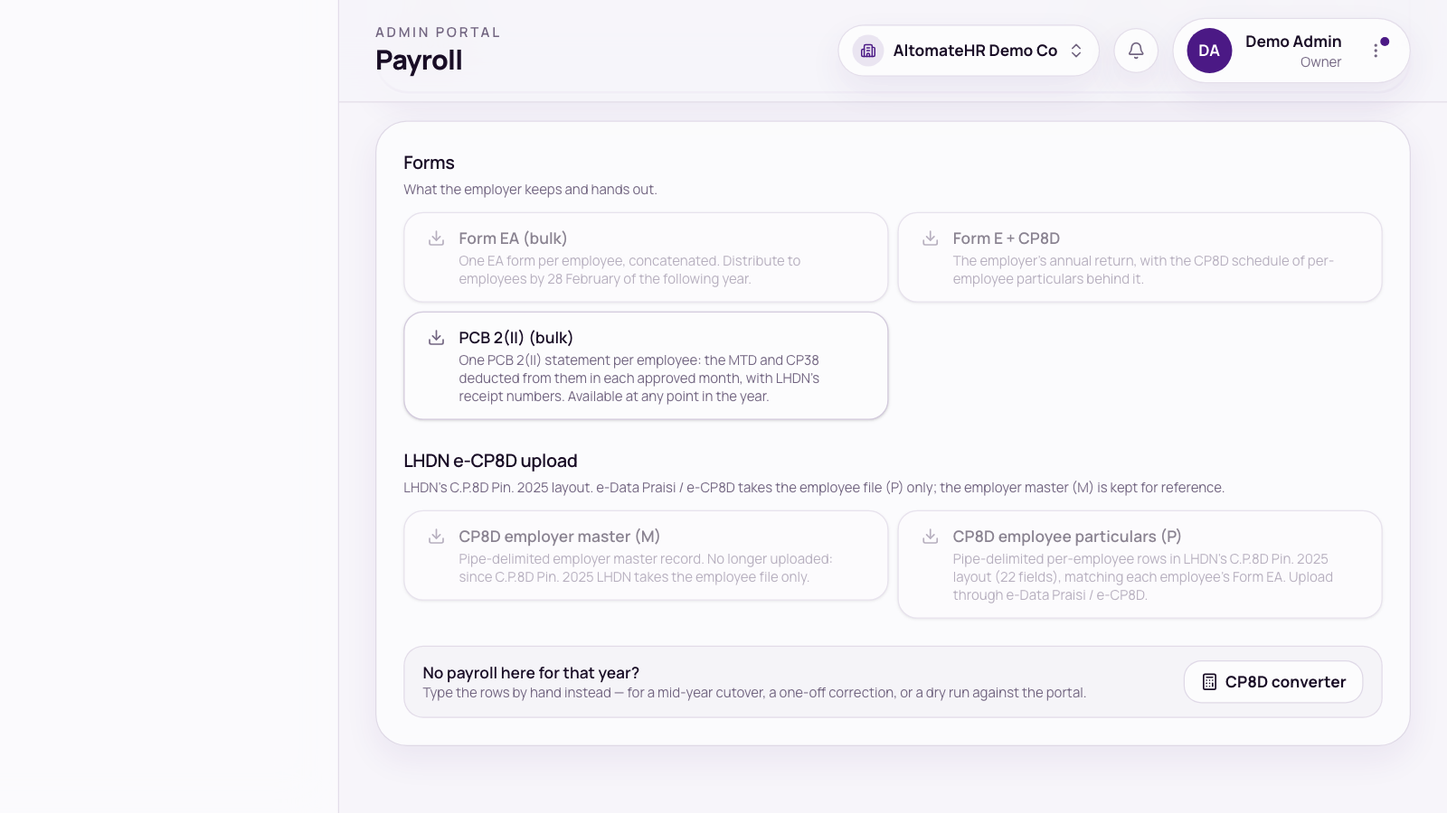
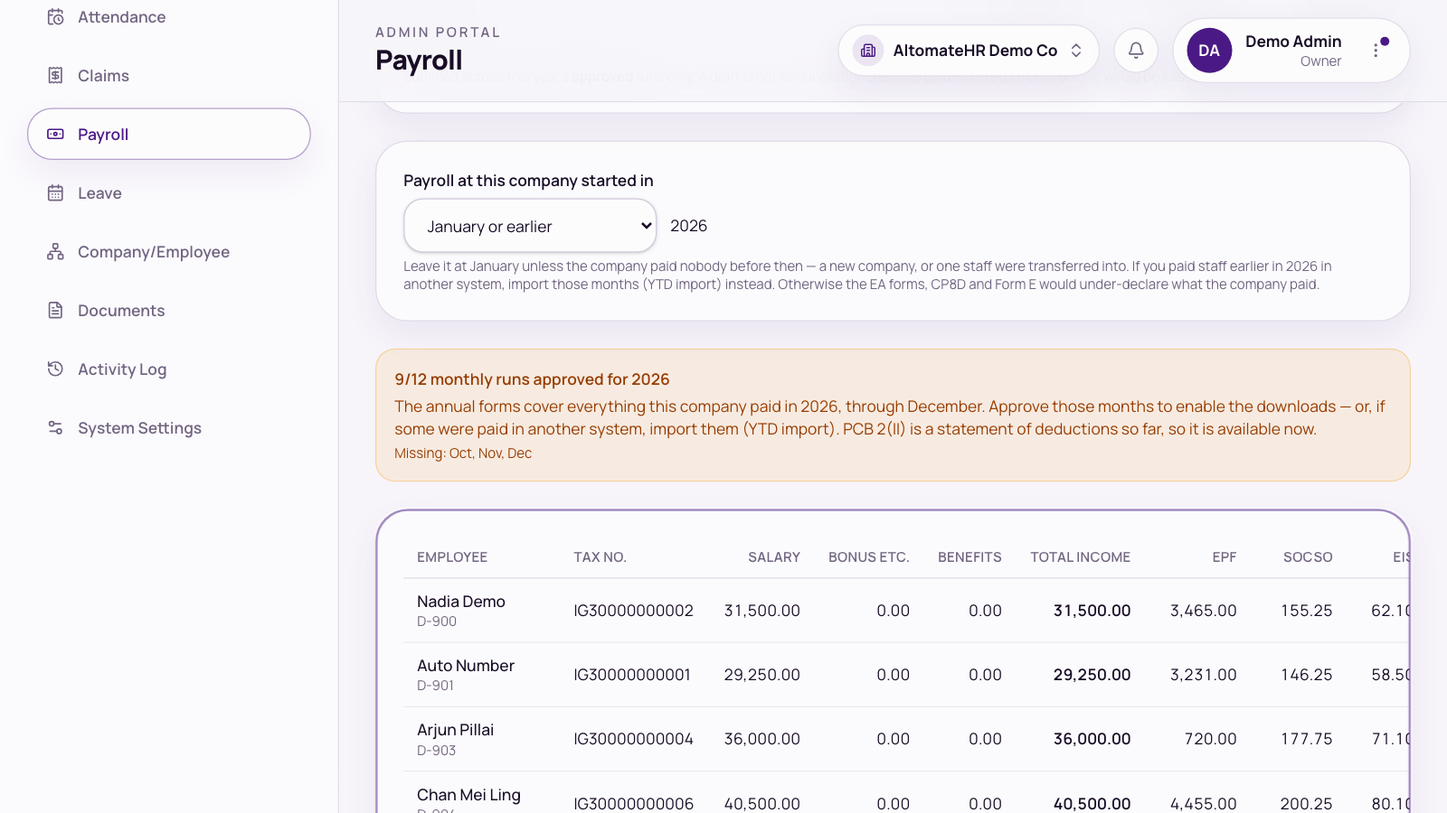
docs: what's new, API docs and user guides for the payroll start setting and company-money claim routing

diff --git a/api-docs/payroll.html b/api-docs/payroll.html
@@ -477,8 +477,11 @@
         <p>
           A year appears once the caller has at least one submitted payslip in it, even if the form
           isn't ready, so "not yet" is visible. The form declares the whole January&ndash;December
-          year, so it is <code>available</code> only once <strong>all 12 months</strong> of that year's
-          runs are approved (<code>SUBMITTED</code>) &mdash; the company's runs, whoever was on them.
+          year, so it is <code>available</code> only once the company's payroll for that year is approved
+          (<code>SUBMITTED</code>) <strong>from its first run of the year through December</strong>
+          &mdash; the company's runs, whoever was on them. That is all 12 months unless an admin set a
+          later payroll start month (see <a href="#set-payroll-start">PUT /payroll/annual/start</a>)
+          or a run exists for an earlier month, which pulls the start back.
           That holds for leavers too: someone who leaves can return the same year, so a form issued
           at their last month could under-declare.
         </p>
@@ -488,9 +491,10 @@
             <thead><tr><th>Field</th><th>Type</th><th>Meaning</th></tr></thead>
             <tbody>
               <tr><td><code>year</code></td><td>int</td><td>e.g. <code>2026</code>.</td></tr>
-              <tr><td><code>available</code></td><td>boolean</td><td>True once all 12 months of the year are approved.</td></tr>
-              <tr><td><code>approvedMonths</code></td><td>int</td><td>How many of the 12 months are approved so far (0&ndash;12).</td></tr>
-              <tr><td><code>notReadyReason</code></td><td>string?</td><td>Why it isn't ready, in words (e.g. <code>"The 2026 EA form will be ready once all 12 months of 2026 payroll are approved."</code>). <code>null</code> when <code>available</code>.</td></tr>
+              <tr><td><code>available</code></td><td>boolean</td><td>True once every required month of the year is approved.</td></tr>
+              <tr><td><code>approvedMonths</code></td><td>int</td><td>How many of the required months are approved so far.</td></tr>
+              <tr><td><code>requiredMonths</code></td><td>int</td><td>How many months the form waits for: 12 for a company that ran all year, fewer when payroll started later in the year.</td></tr>
+              <tr><td><code>notReadyReason</code></td><td>string?</td><td>Why it isn't ready, in words (e.g. <code>"The 2026 EA form will be ready once this company's 2026 payroll is approved through December."</code>). <code>null</code> when <code>available</code>.</td></tr>
             </tbody>
           </table>
         </div>
@@ -498,9 +502,9 @@
 <pre><code>curl https://&lt;api-host&gt;/payslips/ea-forms \
   -H "Authorization: Bearer wp_live_xxx"</code></pre>
 <pre><code>[
-  { "year": 2026, "available": false, "approvedMonths": 9,
-    "notReadyReason": "The 2026 EA form will be ready once all 12 months of 2026 payroll are approved." },
-  { "year": 2025, "available": true, "approvedMonths": 12, "notReadyReason": null }
+  { "year": 2026, "available": false, "approvedMonths": 9, "requiredMonths": 12,
+    "notReadyReason": "The 2026 EA form will be ready once this company's 2026 payroll is approved through December." },
+  { "year": 2025, "available": true, "approvedMonths": 12, "requiredMonths": 12, "notReadyReason": null }
 ]</code></pre>
       </section>
 
@@ -528,7 +532,7 @@
             <thead><tr><th>Status</th><th>When</th><th>Body</th></tr></thead>
             <tbody>
               <tr><td><code>404</code></td><td>The caller was not paid in that year, or has no employee profile</td><td>empty</td></tr>
-              <tr><td><code>409</code></td><td>Not all 12 months of the year are approved yet</td><td><code>{ "error": "The 2026 EA form will be ready once all 12 months of 2026 payroll are approved." }</code></td></tr>
+              <tr><td><code>409</code></td><td>The company's year is not approved through December yet</td><td><code>{ "error": "The 2026 EA form will be ready once this company's 2026 payroll is approved through December." }</code></td></tr>
             </tbody>
           </table>
         </div>
@@ -948,7 +952,10 @@
       <p>Year-end filings: Form EA, Form E + CP8D, the LHDN e-CP8D upload pair, and PCB 2(II). An employee's own EA reaches them through the payslips surface, not here.</p>
       <div class="callout warn">
         Form EA, Form E + CP8D and the two CP8D TXT files all cover a full January–December
-        year: none can be produced until all twelve months of that year are <code>SUBMITTED</code>.
+        year: none can be produced until every required month of that year is <code>SUBMITTED</code>,
+        through December. The required months start in January, or at the payroll start month an
+        admin set, and an earlier run (even a draft) pulls the start back. A draft month anywhere
+        in the range holds the year back.
         PCB 2(II) is the one exception — a statement of what has been deducted so far — and is
         available at any point in the year.
       </div>
@@ -990,12 +997,59 @@
             <tbody>
               <tr><td><code>year</code>, <code>organizationName</code>, <code>employerNo</code></td><td></td><td><code>employerNo</code> is the TIN with letters/punctuation stripped.</td></tr>
               <tr><td><code>submittedMonths</code></td><td>int[]</td><td>1–12, which months are approved.</td></tr>
-              <tr><td><code>missingMonths</code></td><td>int[]</td><td>1–12 not yet approved.</td></tr>
-              <tr><td><code>canGenerate</code></td><td>boolean</td><td><code>missingMonths</code> is empty — the full-year forms would succeed.</td></tr>
+              <tr><td><code>runMonths</code></td><td>int[]</td><td>1–12, months that have a run in any status (drafts included).</td></tr>
+              <tr><td><code>startMonth</code></td><td>int</td><td>The first month the forms wait for this year: 1 (January) by default, or the configured start month. <code>13</code> when the configured start year is later than <code>year</code> (nothing is required beyond runs that exist).</td></tr>
+              <tr><td><code>payrollStartYear</code>, <code>payrollStartMonth</code></td><td>int | null</td><td>The saved "payroll here started in" setting. <code>null</code> when unset.</td></tr>
+              <tr><td><code>requiredMonths</code></td><td>int</td><td>How many months the forms wait for, from the first required month through December.</td></tr>
+              <tr><td><code>missingMonths</code></td><td>int[]</td><td>Required months not yet approved, in order. Follows the required range, so it is not always the 1–12 gaps.</td></tr>
+              <tr><td><code>canGenerate</code></td><td>boolean</td><td>Every required month is approved (and at least one exists) &mdash; the year-end forms would succeed.</td></tr>
               <tr><td><code>employees</code></td><td>array</td><td>Per-employee year totals: <code>employeeProfileId</code>, <code>employeeName</code>, <code>employeeCode</code>, identity fields, <code>grossSalary</code>, <code>bonusAndCommission</code>, <code>totalBik</code>, <code>totalPcb</code>, <code>totalMtdRemitted</code>, <code>totalCp38</code>, <code>totalZakat</code>, <code>totalEpfEmployee</code>, <code>totalSocsoEmployee</code>, <code>totalEisEmployee</code>, <code>totalIncome</code>, and a <code>months</code> array of <code>{ month, pcb, cp38, zakat }</code>. (The full row also carries the EA form's own line-by-line figures.)</td></tr>
             </tbody>
           </table>
         </div>
+      </section>
+
+      <section class="endpoint" id="set-payroll-start">
+        <div class="endpoint-head">
+          <span class="method put">PUT</span>
+          <span class="path">/payroll/annual/start</span>
+          <span class="tag scope">payroll:write</span>
+        </div>
+        <p>Tells the year-end forms that payroll at this company genuinely started part-way through a year, so that year's forms wait only for the months from then through December. Needs the Payroll module.</p>
+        <h3>Request</h3>
+        <div class="table-wrap">
+          <table>
+            <thead><tr><th>Field</th><th>Type</th><th>Required</th><th>Notes</th></tr></thead>
+            <tbody>
+              <tr><td><code>year</code></td><td>int | null</td><td>With <code>month</code></td><td>2000&ndash;2100.</td></tr>
+              <tr><td><code>month</code></td><td>int | null</td><td>With <code>year</code></td><td>1&ndash;12.</td></tr>
+            </tbody>
+          </table>
+        </div>
+        <p>Send both, or send neither (<code>{}</code> or both <code>null</code>) to clear it. A start month of January is stored as "unset", which is the default.</p>
+        <h3>Response <code>204</code></h3>
+        <p>No body. Reload <code>GET /payroll/annual/{year}</code> to see the effect.</p>
+        <h3>Errors</h3>
+        <div class="table-wrap">
+          <table>
+            <thead><tr><th>Status</th><th>When</th><th>Body</th></tr></thead>
+            <tbody>
+              <tr><td><code>400</code></td><td>A field is out of range</td><td><code>{ "errors": { "Month": ["…"] } }</code></td></tr>
+              <tr><td><code>400</code></td><td>Only one of <code>year</code> and <code>month</code> given</td><td><code>{ "error": "Give both the year and the month, or neither." }</code></td></tr>
+              <tr><td><code>403</code></td><td>Missing scope or module, or the admin's access doesn't include changing settings</td><td><code>{ "error": { "status": 403, "message": "…" } }</code></td></tr>
+            </tbody>
+          </table>
+        </div>
+        <h3>Things that bite</h3>
+        <ul>
+          <li><strong>Only for a company that really began paying later.</strong> If staff were paid January&ndash;June in another system and moved here in July, import those months (YTD import) instead. Setting a July start would make the forms under-declare what the company paid.</li>
+          <li><strong>It replaces the saved start.</strong> The start applies to its own year; later years go back to January, and earlier years require nothing beyond runs that exist.</li>
+          <li><strong>A run for an earlier month pulls the start back</strong>, whatever you set, and a draft month in the range holds the year back.</li>
+          <li>The change is written to the audit log.</li>
+        </ul>
+<pre><code>curl -X PUT https://&lt;api-host&gt;/payroll/annual/start \
+  -H "Authorization: Bearer wp_live_xxx" -H "Content-Type: application/json" \
+  -d '{"year":2026,"month":7}'</code></pre>
       </section>
 
       <section class="endpoint">
@@ -1009,8 +1063,8 @@
         <p>The file, content type and filename per that report's <code>mimeType</code>/<code>extension</code> (e.g. <code>Form_EA_2026_Bulk.pdf</code>, <code>P{employerNo}_2026.TXT</code>).</p>
         <h3>Errors</h3>
         <p>
-          <code>409</code> <code>{ "error": "x/12 monthly runs approved for 2026. The annual forms cover the full January–December year, so approve every month first (missing: …)." }</code>
-          for a full-year report with gaps; <code>409</code> naming a missing Company Info field for the forms that need one.
+          <code>409</code> <code>{ "error": "x/y monthly runs approved for 2026. The annual forms cover every month this company ran payroll through December, so approve those first (missing: …)." }</code>
+          for a full-year report with gaps (<code>y</code> is <code>requiredMonths</code>); <code>409</code> naming a missing Company Info field for the forms that need one.
         </p>
 <pre><code>curl https://&lt;api-host&gt;/payroll/annual/2026/reports/FORM_EA_BULK_PDF \
   -H "Authorization: Bearer wp_live_xxx" -o form-ea-2026.pdf</code></pre>

diff --git a/api-docs/claims.html b/api-docs/claims.html
@@ -123,7 +123,7 @@
             <tr><td><code>receiptXeroFileId</code></td><td>string | null</td><td>Set when the receipt is held in Xero Files.</td></tr>
             <tr><td><code>supportingDocumentUrls</code></td><td>string[]</td><td>Extra documents, same kind of path as <code>receiptUrl</code>. Empty when there are none.</td></tr>
             <tr><td><code>reviewNotes</code></td><td>string | null</td><td>The approver's remark. Set when a claim is rejected.</td></tr>
-            <tr><td><code>settlement</code></td><td>string</td><td>How an approved claim is paid: <code>XERO_BILL</code> (pushed to Xero) or <code>PAYROLL</code> (reimbursed through pay and picked up by the <a href="#export-payroll">payroll export</a>).</td></tr>
+            <tr><td><code>settlement</code></td><td>string</td><td>How an approved claim is paid: <code>XERO_BILL</code> (pushed to Xero) or <code>PAYROLL</code> (reimbursed through pay and picked up by the <a href="#export-payroll">payroll export</a>), or <code>NONE</code> (not sent anywhere). A company-paid claim filed under the <code>PAYROLL</code> route is <code>XERO_BILL</code> when Xero is connected (it goes to Xero as Spend Money) and <code>NONE</code> when it isn't, because there is nobody to reimburse.</td></tr>
             <tr><td><code>xeroSyncStatus</code></td><td>string</td><td><code>NOT_SYNCED</code>, <code>SYNCED</code> or <code>ERROR</code>. <code>ERROR</code> means a push was tried and failed; see <code>xeroSyncError</code>.</td></tr>
             <tr><td><code>xeroBillId</code>, <code>xeroBillRef</code></td><td>string | null</td><td>The Xero document once synced. A company-paid claim becomes a spend-money transaction rather than a bill, but the id is stored in the same field.</td></tr>
             <tr><td><code>xeroSyncError</code></td><td>string | null</td><td>Why the last push failed.</td></tr>
@@ -347,7 +347,7 @@
           <thead><tr><th>Field</th><th>Type</th><th>Meaning</th></tr></thead>
           <tbody>
             <tr><td><code>claimRunCutoffDay</code></td><td>integer</td><td>Day of the month, 1–28, that a claims run closes. A claim submitted on or before it belongs to that month's run; a later one rolls into the next. Defaults to <code>25</code>.</td></tr>
-            <tr><td><code>settlementRoute</code></td><td>string</td><td><code>XERO_BILL</code> (default) or <code>PAYROLL</code>. How approved claims are paid out.</td></tr>
+            <tr><td><code>settlementRoute</code></td><td>string</td><td><code>XERO_BILL</code> (default), <code>PAYROLL</code> or <code>NONE</code> (don't send anywhere). How approved claims are paid out.</td></tr>
             <tr><td><code>xeroBillStage</code></td><td>string</td><td><code>AwaitingPayment</code> (default) or <code>Draft</code>. The stage a bill lands at in Xero. Only used on the <code>XERO_BILL</code> route.</td></tr>
           </tbody>
         </table>
@@ -384,7 +384,7 @@
             <thead><tr><th>Field</th><th>Type</th><th>Required</th><th>Meaning</th></tr></thead>
             <tbody>
               <tr><td><code>claimRunCutoffDay</code></td><td>integer</td><td>no</td><td>1–28. Defaults to <code>25</code> when omitted.</td></tr>
-              <tr><td><code>settlementRoute</code></td><td>string</td><td>no</td><td><code>XERO_BILL</code> or <code>PAYROLL</code>. Defaults to <code>XERO_BILL</code> when omitted.</td></tr>
+              <tr><td><code>settlementRoute</code></td><td>string</td><td>no</td><td><code>XERO_BILL</code>, <code>PAYROLL</code> or <code>NONE</code>. Defaults to <code>XERO_BILL</code> when omitted.</td></tr>
               <tr><td><code>xeroBillStage</code></td><td>string</td><td>no</td><td><code>AwaitingPayment</code> or <code>Draft</code>. Defaults to <code>AwaitingPayment</code> when omitted.</td></tr>
             </tbody>
           </table>
@@ -398,7 +398,7 @@
         <h3>Things that bite</h3>
         <ul>
           <li><strong>It replaces all three settings.</strong> A field you leave out is reset to its default, not kept. To change one setting, read <a href="#get-claim-settings">GET /claims/settings</a> first and send all three back.</li>
-          <li><strong><code>settlementRoute</code> applies to claims filed afterwards.</strong> Each claim carries the route it was filed under, so switching it doesn't re-route claims that already exist. <code>xeroBillStage</code>, by contrast, is read each time a claim is pushed to Xero.</li>
+          <li><strong><code>settlementRoute</code> applies to claims filed afterwards.</strong> Each claim carries the route it was filed under, so switching it doesn't re-route claims that already exist. <strong>Company-paid claims never use <code>PAYROLL</code>:</strong> under the <code>PAYROLL</code> route they are stamped <code>XERO_BILL</code> (Spend Money) if Xero is connected, otherwise <code>NONE</code>; only own-money claims are reimbursed through payroll. <code>xeroBillStage</code>, by contrast, is read each time a claim is pushed to Xero.</li>
         </ul>
         <h3>Errors</h3>
         <ul>
@@ -740,7 +740,7 @@
         <h3>Things that bite</h3>
         <ul>
           <li><strong>A run is not a calendar month.</strong> It covers claims <em>submitted</em> from the day after the previous month's cutoff to the cutoff day inclusive. With a cutoff of 25, the <code>2026-01</code> run is 26 December to 25 January.</li>
-          <li>Only claims whose <code>settlement</code> is <code>PAYROLL</code> appear, so an empty file usually means the company pays through Xero, or <code>settlementRoute</code> was changed after the claims were filed.</li>
+          <li>Only claims whose <code>settlement</code> is <code>PAYROLL</code> appear, so company-paid claims never appear, and an empty file usually means the company pays through Xero, or <code>settlementRoute</code> was changed after the claims were filed.</li>
         </ul>
       </section>
 

diff --git a/user-guide/altomatehr-admin-guide.html b/user-guide/altomatehr-admin-guide.html
@@ -7,7 +7,7 @@
   Bookmark: this page is correct as of this commit on main. The next update
   re-checks every user-visible change after it — from any branch — then
   moves it forward.
-  user-guide-covered-up-to: 6847c37
+  user-guide-covered-up-to: 44ff859
 -->
 <html lang="en">
 <head>
@@ -1023,9 +1023,17 @@
     <ul>
       <li><strong>Default currency</strong>.</li>
       <li><strong>How approved claims are paid</strong> — one route for the whole company:
-        <strong>Sync to Xero as a bill</strong> (choose Awaiting payment or Draft), <strong>Add to payroll</strong>
-        so they're reimbursed through the employee's pay, or <strong>Don't send anywhere</strong> — claims stay
-        approved in AltomateHR and you reimburse them your own way (you can still add one to a payroll run by hand).</li>
+        <strong>Sync to Xero</strong>, <strong>Add to payroll</strong> or
+        <strong>Don't send anywhere</strong>. Each route shows two lines, <em>Own money</em> and <em>Company money</em>:
+        <ul>
+          <li><strong>Sync to Xero</strong> — own-money claims become a bill in Xero to pay the employee back (choose
+            Awaiting payment or Draft); company-money claims become Spend Money in Xero, from the bank account that paid.</li>
+          <li><strong>Add to payroll</strong> — own-money claims are reimbursed through the employee's pay; company-money
+            claims go to Xero as Spend Money, since there's nobody to reimburse. Without a Xero connection, a
+            company-money claim stays approved in AltomateHR.</li>
+          <li><strong>Don't send anywhere</strong> — both kinds stay approved in AltomateHR and you handle them your own
+            way (you can still add an own-money claim to a payroll run by hand).</li>
+        </ul></li>
       <li><strong>Claim run cutoff</strong> — the day of the month claims are cut off.</li>
     </ul>
     <p>Export the list as CSV, XLSX or PDF from the button beside the tabs.</p>
@@ -1331,13 +1339,20 @@
         the upload files. Each row also needs a <strong>Status</strong>, a <strong>Retire / contract end</strong> date
         (or the date they left) and their <strong>PERKESO</strong> amount (SOCSO and EIS together).</li>
     </ul>
+    <p>The forms (EA, CP8D, Form E) stay greyed out until every month they cover is approved — by default January to
+      December. If the page shows <em>9/12 monthly runs approved</em>, approve the months listed under <em>Missing</em>.</p>
+    <p>The <strong>Payroll at this company started in</strong> card, above the forms, changes which months are needed.
+      It's set to <em>January or earlier</em>; pick another month and the forms wait for that month through December
+      instead. Use it only if the company paid nobody before then — a new company, or one staff were transferred into.
+      If you paid staff earlier in the year in another system, leave it at January and use the <strong>YTD import</strong>
+      for those months, or the forms would under-declare what the company paid. Admins who can change settings can edit it.</p>
     <p>CP8D needs your LHDN employer number — the page warns you if it's missing. Each employee's status and contract
       end date come from the Employment tab of their record; if left blank they count as permanent, with retirement at 60.</p>
     
     <figure class="shot" data-place="Annual forms">
       <div class="shot-grid" data-orient="screen">
         <div class="shot-item">
-          <img src="shots/admin/annual-forms.png" alt="Payroll → Annual forms: Form EA, Form E + CP8D, PCB 2(II) (bulk) and the e-CP8D upload files" loading="lazy">
+          <img src="shots/admin/annual-forms.png" alt="Payroll → Annual forms: the payroll start month card, the monthly runs approved warning and the employee table" loading="lazy">
         </div>
       </div>
       <p class="shot-cap shot-cap-main">Annual tax forms</p>
@@ -1355,9 +1370,9 @@
       CP21 open as soon as you've set their <strong>Last day</strong> (Employment tab → Archive) — you don't have to
       archive them first — and show a deadline badge counting down to 30 days before that date.</p>
     <p>The <strong>Year</strong> box is used by the two year-based forms, PCB 2(II) and EA. The
-      <strong>EA — Statement of remuneration</strong> card covers the whole January–December year, so its
-      <span class="btn-name">Download PDF</span> button stays greyed out, with the reason beneath it, until all 12 months
-      of that year's payroll are approved. That includes someone who has left — they might come back the same year.
+      <strong>EA — Statement of remuneration</strong> card covers the year through December, so its
+      <span class="btn-name">Download PDF</span> button stays greyed out, with the reason beneath it, until every month
+      from January (or from the month set under <a href="#annual">Payroll at this company started in</a>) is approved. That includes someone who has left — they might come back the same year.
       Change the year and the card updates. The file is named <em>EA_&lt;employee no&gt;_&lt;year&gt;.pdf</em>. To
       print everyone's EA at once, use <strong>Form EA (bulk)</strong> under <a href="#annual">Payroll → Annual
       forms</a>; that is unchanged.</p>

diff --git a/user-guide/altomatehr-employee-guide.html b/user-guide/altomatehr-employee-guide.html
@@ -7,7 +7,7 @@
   Bookmark: this page is correct as of this commit on main. The next update
   re-checks every user-visible change after it — from any branch — then
   moves it forward.
-  user-guide-covered-up-to: 6847c37
+  user-guide-covered-up-to: 44ff859
 -->
 <html lang="en">
 <head>
@@ -773,9 +773,9 @@
       <li>Your latest payslip is also on the Dashboard. Your company may email it to you as well.</li>
     </ul>
     <p><strong>Form EA.</strong> Above your payslips and year tabs, a <strong>Form EA</strong> card has one row for each year you were
-      paid in — your yearly statement of pay, for filing your income tax return. When all 12 months of that year's payroll
-      have been approved, the row shows <span class="btn-name">Download EA</span>. Until then it tells you when it will
-      be ready, for example <em>The 2026 EA form will be ready once all 12 months of 2026 payroll are approved. (9 of 12
+      paid in — your yearly statement of pay, for filing your income tax return. When every month of that year's payroll
+      has been approved (January to December, or from the month your company started paying staff), the row shows <span class="btn-name">Download EA</span>. Until then it tells you when it will
+      be ready, for example <em>The 2026 EA form will be ready once payroll is approved through December. (9 of 12
       months so far)</em>. The card doesn't appear until you have a payslip, and you still see it if you've left the
       company.</p>
     
@@ -940,8 +940,8 @@
         menu — see <a href="#account">Password, alerts &amp; companies</a>.</p></div></details>
     <details class="qa"><summary>Where's my EA form?</summary>
       <div class="body"><p>It's on the <strong>Payslips</strong> tab, in the <strong>Form EA</strong> card above your
-        payslips. It can be downloaded once all 12 months of that year's payroll are approved — until then the card shows
-        how many months are done. If it's past February and it still isn't ready, ask HR.</p></div></details>
+        payslips. It can be downloaded once that year's payroll is approved through December — until then the card shows
+        how many months are done (for example 9 of 12; fewer if your company started paying staff partway through the year). If it's past February and it still isn't ready, ask HR.</p></div></details>
     <details class="qa"><summary>Where's my payslip?</summary>
       <div class="body"><p>Payslips appear once payroll for that month is finalised. The <strong>Payslips</strong> tab opens
         on your latest year — for an older payslip, tap that year's tab above the list. If it's past payday and it isn't

diff --git a/frontend/src/features/whats-new/lib/entries.ts b/frontend/src/features/whats-new/lib/entries.ts
@@ -8,7 +8,7 @@
 //
 // Bookmark: the last commit on main these notes already cover. The next update
 // writes up everything after it — from any branch — then moves it forward.
-// whats-new-covered-up-to: 6847c37
+// whats-new-covered-up-to: 44ff859
 
 export type WhatsNewEntry = {
   /** Release day, yyyy-MM-dd (Malaysia time). Also what "unread" compares. */
@@ -32,9 +32,12 @@ export const WHATS_NEW: WhatsNewEntry[] = [
       "Payroll → Run downloads: Allowance and Deduction reports (Excel). One row per employee, one column per item, with totals. Deductions exclude EPF, SOCSO, EIS, PCB and other statutory payments; benefits in kind and from-gross items (unpaid leave, advances, salary adjustments) are listed but kept out of the cash total. Also included in the download-all zip.",
     ],
     improved: [
+      "Payroll → Annual forms: new setting \"Payroll at this company started in <month>\" for a company that began mid-year. Annual forms (EA, CP8D, Form E) then wait only from that month through December; by default they still wait for January–December. If you paid staff earlier in the year in another system, import those months (YTD import) instead of setting this.",
+      "Claims → Settings: now shows for each route what happens to own-money and company-money claims.",
       "Payslips: opens on the latest year, with a tab for each earlier year you were paid in (newest first), instead of one long list of every payslip. The year tabs appear when you have payslips in more than one year.",
     ],
     fixed: [
+      "Company-money claims no longer get stuck on the \"Add to payroll\" route; they now go to Xero as Spend Money from the paying bank, or nowhere if Xero isn't connected.",
       "Xero: reloading the connection page after a successful connect no longer shows 'Xero didn't finish connecting'. A failed reconnection attempt while still connected shows a calm 'nothing changed — still connected' note instead of an error.",
       "Attendance (Today, Employees tab) and Leave balances/bulk export now list staff only — the Owner and admins no longer appear.",
       "Payroll → Bank files: the Public Bank payroll file no longer refuses to download when a run includes employees paid by Other bank / e-wallet (e.g. Merchantrade), cash or cheque. They're left out of the file and paid from the Manual payments sheet. This applies to any month's run with such employees; bank-transfer amounts are unchanged.",

diff --git a/api-docs/employees.html b/api-docs/employees.html
@@ -704,8 +704,8 @@
         <p><code>404</code> (empty) when <code>{id}</code> is not a member of this organization.</p>
         <div class="callout">
           <code>EA</code> is the employee's Form EA (statement of remuneration) for the year. It is
-          <code>enabled</code> only once <strong>all 12 months</strong> of that year's payroll runs are
-          approved, for every employee &mdash; leavers included &mdash; and only if they were paid in that year.
+          <code>enabled</code> only once the company's payroll for that year is approved
+          <strong>through December</strong> (from its first run of the year, normally January), for every employee &mdash; leavers included &mdash; and only if they were paid in that year.
           It does not depend on the leave date or on whether the employee is archived.
         </div>
         <p>One element of the array (a <code>CP22</code> card):</p>
@@ -745,7 +745,7 @@
           <table>
             <thead><tr><th>Status</th><th>When</th><th>Body</th></tr></thead>
             <tbody>
-              <tr><td><code>400</code></td><td>Unknown <code>kind</code>, or the form isn't available yet for this person (e.g. no leave date set). For <code>EA</code>: not all 12 months of <code>year</code> are approved (<code>"The 2026 EA form will be ready once all 12 months of 2026 payroll are approved."</code>), or they weren't paid that year (<code>"No approved payroll for this employee in 2026."</code>)</td><td><code>{ "error": "…" }</code></td></tr>
+              <tr><td><code>400</code></td><td>Unknown <code>kind</code>, or the form isn't available yet for this person (e.g. no leave date set). For <code>EA</code>: the company's <code>year</code> payroll isn't approved through December (<code>"The 2026 EA form will be ready once this company's 2026 payroll is approved through December."</code>), or they weren't paid that year (<code>"No approved payroll for this employee in 2026."</code>)</td><td><code>{ "error": "…" }</code></td></tr>
               <tr><td><code>404</code></td><td><code>{id}</code> is not a member of this organization</td><td>empty</td></tr>
             </tbody>
           </table>

diff --git a/api-docs/index.html b/api-docs/index.html
@@ -25,7 +25,7 @@
   Bookmark: the pages that exist are correct as of this commit on main. The
   next update re-checks every controller/DTO changed after it — from any
   branch — then moves it forward.
-  api-docs-covered-up-to: e583a98
+  api-docs-covered-up-to: 44ff859
 -->
 <div class="layout">
   <nav class="sidebar" aria-label="Documentation">
